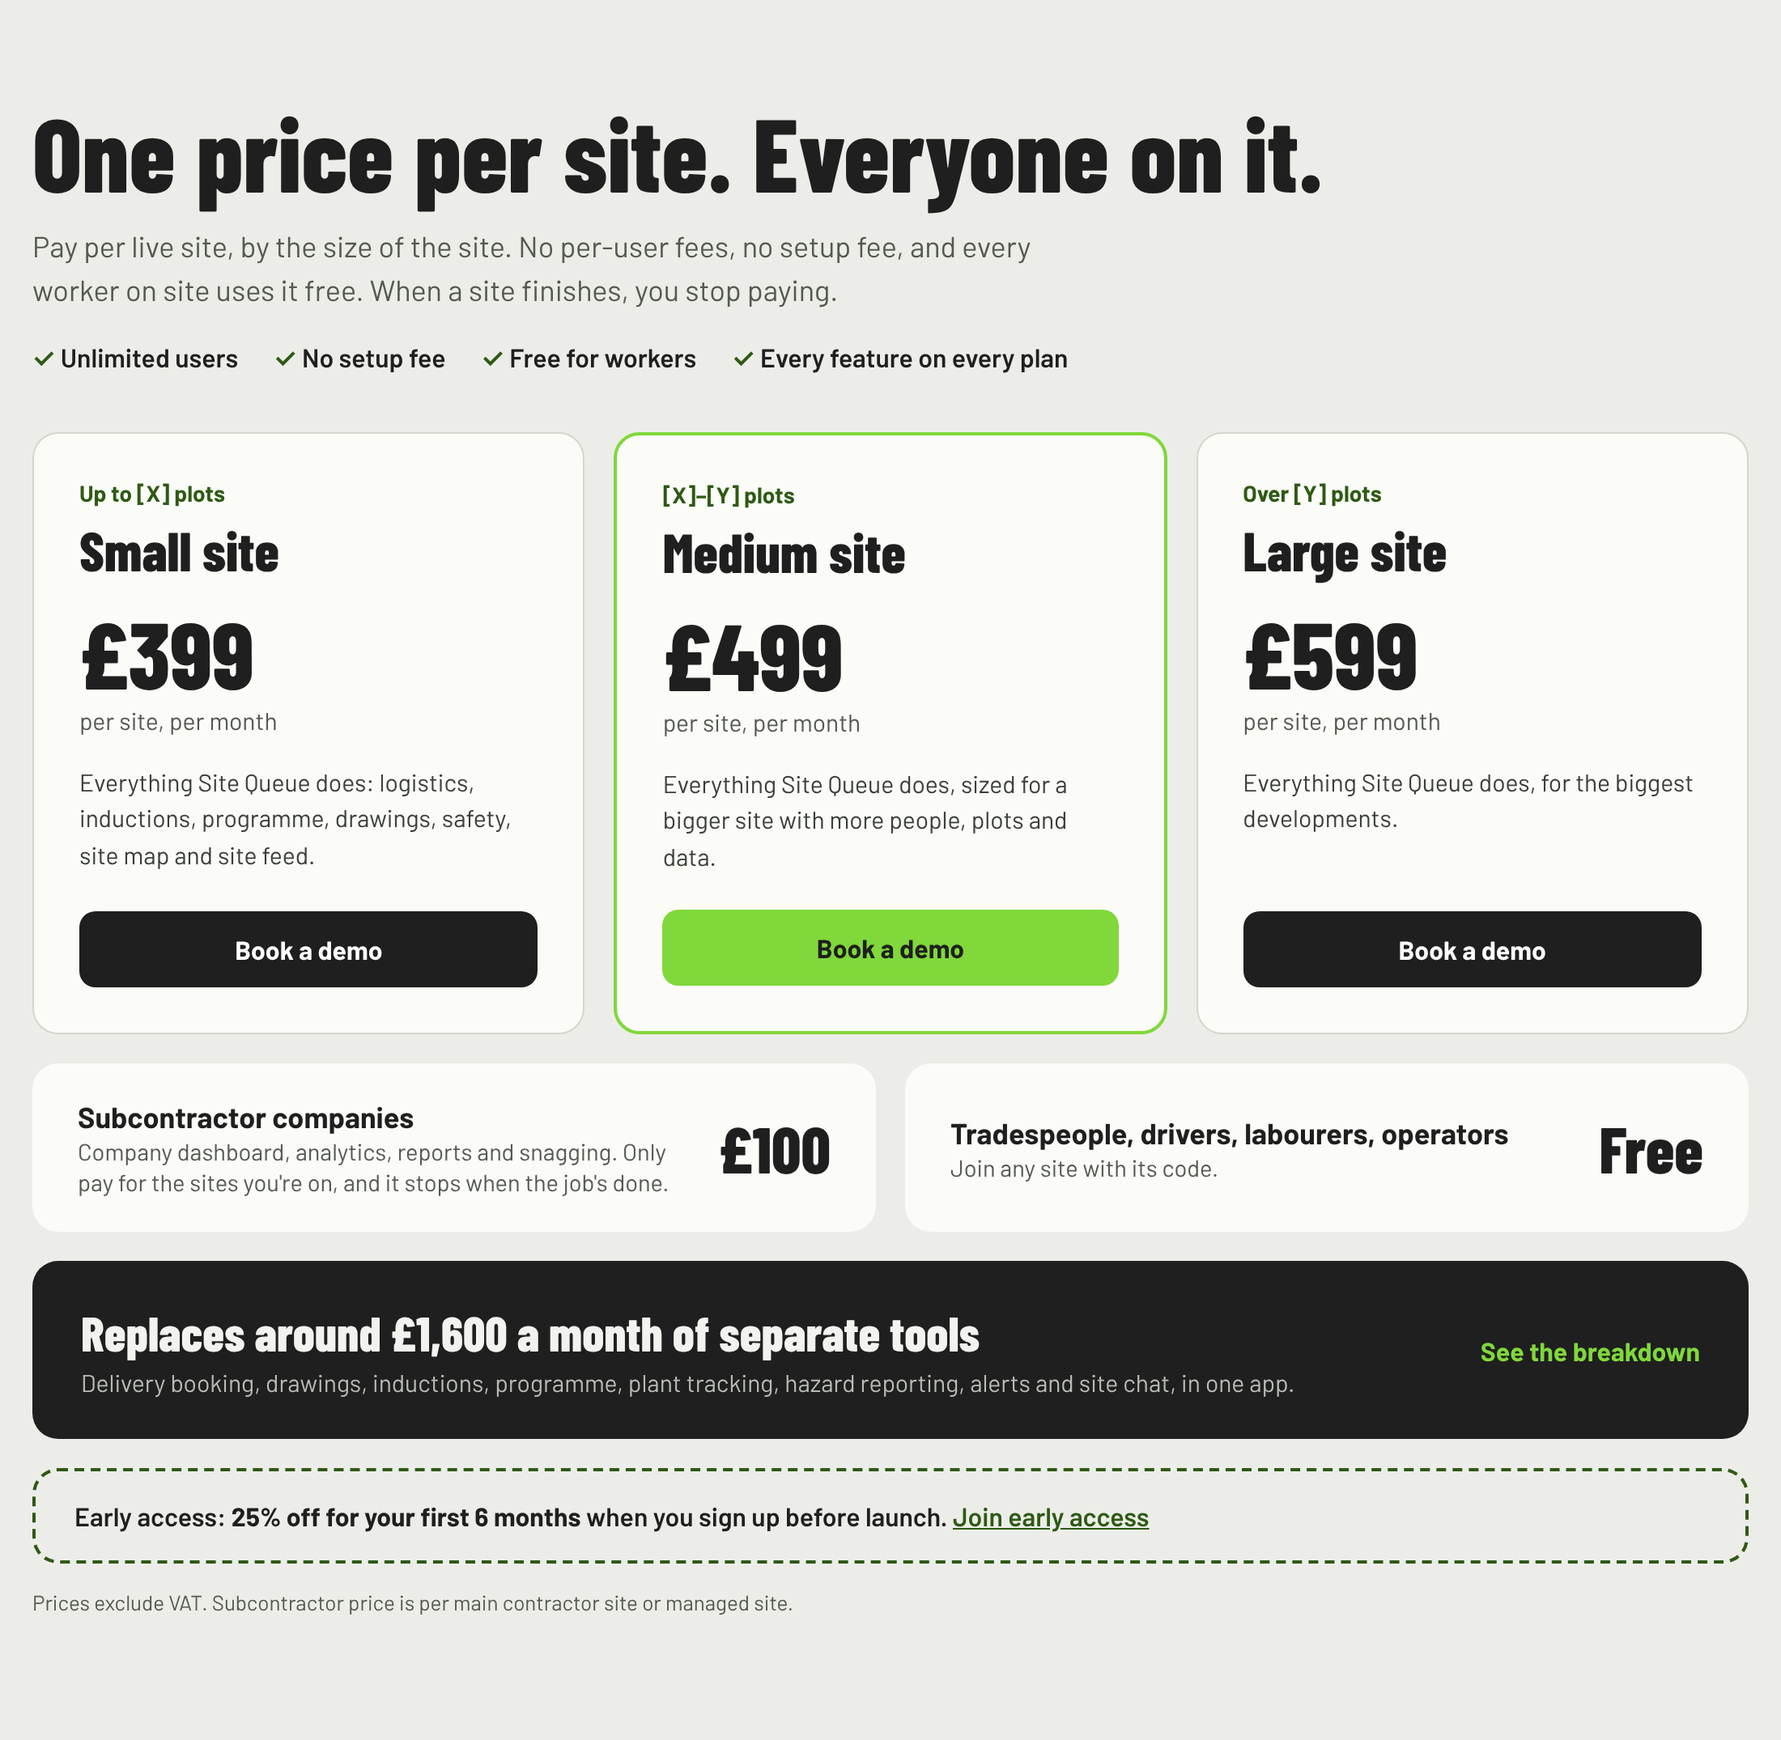
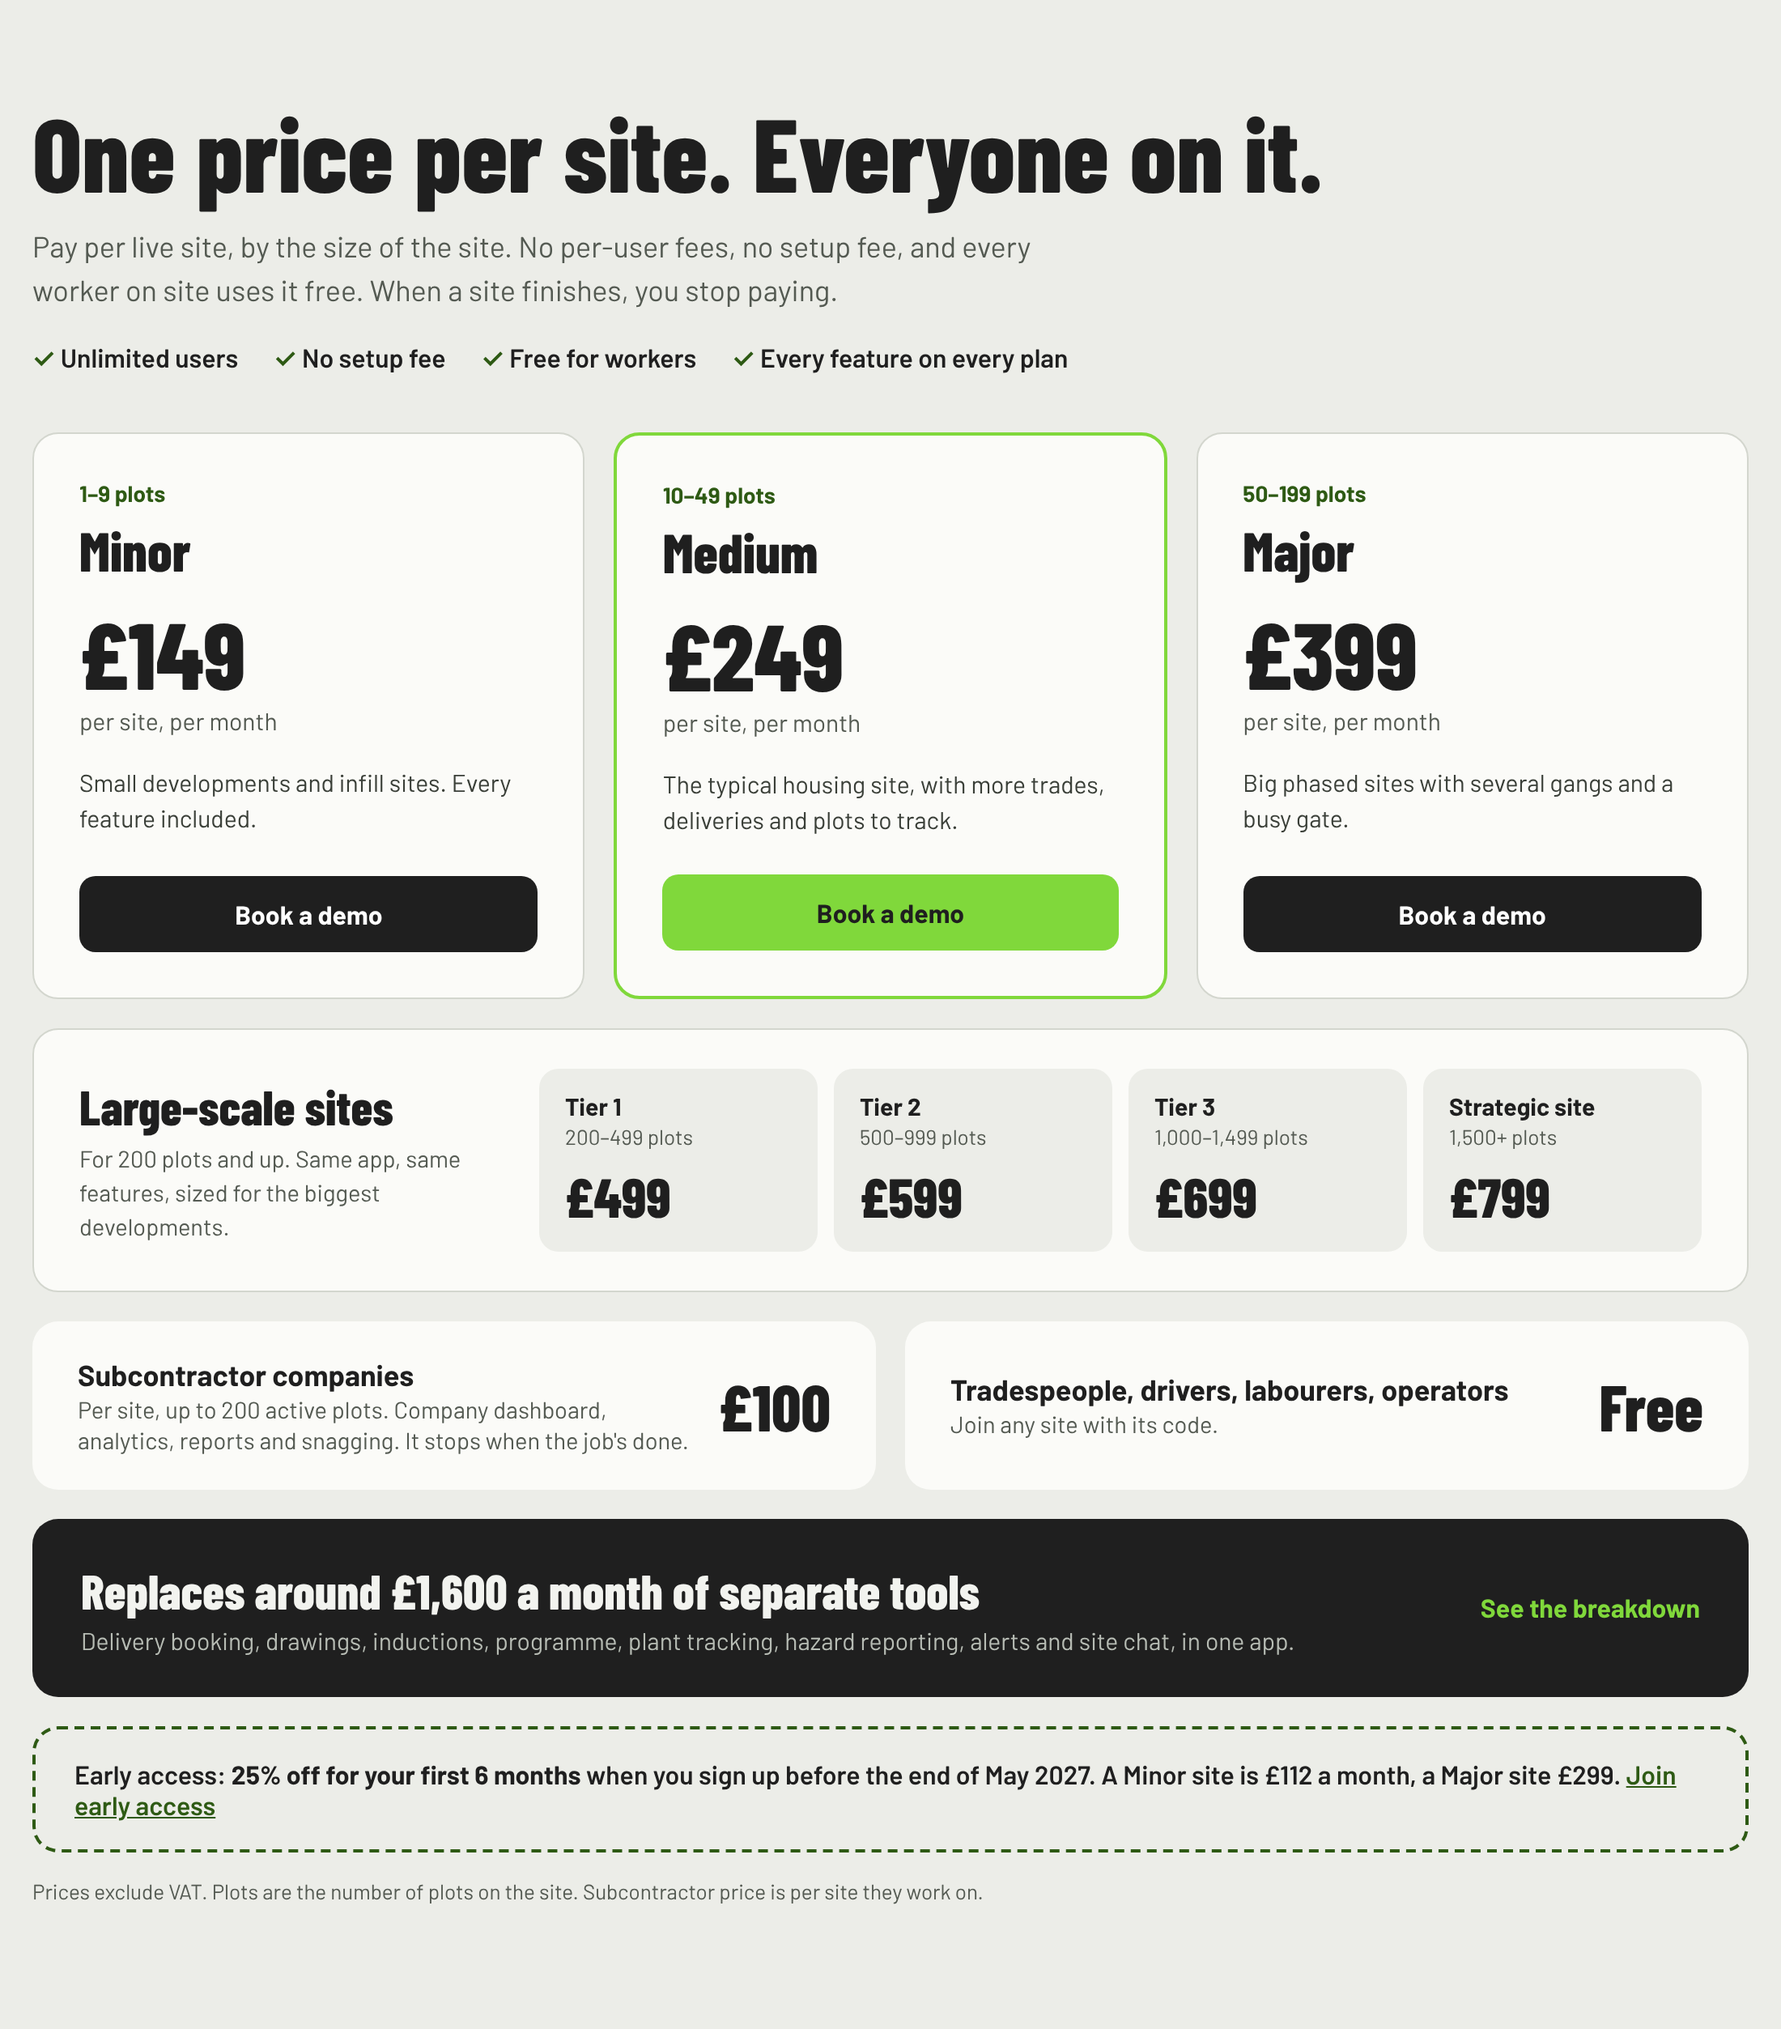
Pricing section: Luke's 7 plot-based tiers, subcontractor cap, early access to end of May 2027; comparison graphics from £149
Claude-Session: https://claude.ai/code/session_01Rq6TRmoTie3jpEZMymRowt

Changed region(s): [[0.0, 0.0623, 0.9891, 0.9349]]

diff --git a/marketing/website/pricing-section.html b/marketing/website/pricing-section.html
@@ -4,7 +4,7 @@
 <meta charset="utf-8">
 <meta name="viewport" content="width=device-width, initial-scale=1">
 <title>Pricing | Site Queue</title>
-<!-- Site Queue pricing section. Prices from Luke (Nov 2026): tiers by site size; plot limits [X]/[Y] still to set.
+<!-- Site Queue pricing section. Prices from Luke (Nov 2026): tiers by site size; 7 main contractor tiers by plot count, subcontractor £100, early access 25% off 6 months to end of May 2027.
      Drop the <section> into a WordPress Custom HTML block. Styles are scoped to .sq-pricing. -->
 <link rel="stylesheet" href="https://fonts.googleapis.com/css2?family=Barlow+Condensed:wght@800&family=Barlow:wght@400;500;600;700&display=swap">
 <style>
@@ -27,6 +27,14 @@
   .sq-pricing .btn { display: block; text-align: center; font-weight: 700; font-size: 16px; padding: 14px; border-radius: 10px; text-decoration: none; background: var(--char); color: #fff; }
   .sq-pricing .plan.pop .btn { background: var(--lime); color: var(--char); }
   .sq-pricing .btn:focus-visible { outline: 3px solid var(--deep); outline-offset: 3px; }
+  .sq-pricing .large { margin-top: 18px; background: #FBFBF8; border-radius: 16px; padding: 24px 28px; border: 1.5px solid var(--line); display: grid; grid-template-columns: 260px 1fr; gap: 24px; align-items: center; }
+  .sq-pricing .lh b { display: block; font-family: 'Barlow Condensed', Arial, sans-serif; font-weight: 800; font-size: 30px; }
+  .sq-pricing .lh span { font-size: 14.5px; color: var(--grey); line-height: 1.45; display: block; margin-top: 4px; }
+  .sq-pricing .tiers { display: grid; grid-template-columns: repeat(4, 1fr); gap: 10px; }
+  .sq-pricing .tiers div { background: var(--con); border-radius: 12px; padding: 14px 16px; }
+  .sq-pricing .tiers span { display: block; font-weight: 700; font-size: 15px; }
+  .sq-pricing .tiers small { display: block; font-size: 13px; color: var(--grey); margin-top: 2px; }
+  .sq-pricing .tiers b { display: block; font-family: 'Barlow Condensed', Arial, sans-serif; font-weight: 800; font-size: 34px; margin-top: 8px; }
   .sq-pricing .extras { display: grid; grid-template-columns: 1fr 1fr; gap: 18px; margin-top: 18px; }
   .sq-pricing .extra { background: #FBFBF8; border-radius: 16px; padding: 22px 28px; display: flex; justify-content: space-between; align-items: center; gap: 18px; }
   .sq-pricing .extra b { display: block; font-size: 18px; }
@@ -38,7 +46,7 @@
   .sq-pricing .compare a { color: var(--lime); font-weight: 700; text-decoration: none; }
   .sq-pricing .early { margin-top: 18px; border: 2px dashed var(--deep); border-radius: 16px; padding: 18px 24px; font-weight: 600; }
   .sq-pricing .small { font-size: 13px; color: var(--grey); margin-top: 16px; }
-  @media (max-width: 860px) { .sq-pricing .plans, .sq-pricing .extras { grid-template-columns: 1fr; } }
+  @media (max-width: 860px) { .sq-pricing .plans, .sq-pricing .extras, .sq-pricing .large { grid-template-columns: 1fr; } .sq-pricing .tiers { grid-template-columns: 1fr 1fr; } }
 </style>
 </head>
 <body style="margin:0">
@@ -50,30 +58,40 @@
 
     <div class="plans">
       <div class="plan">
-        <div class="who">Up to [X] plots</div>
-        <h3>Small site</h3>
-        <div class="price">£399</div><div class="per">per site, per month</div>
-        <p>Everything Site Queue does: logistics, inductions, programme, drawings, safety, site map and site feed.</p>
+        <div class="who">1–9 plots</div>
+        <h3>Minor</h3>
+        <div class="price">£149</div><div class="per">per site, per month</div>
+        <p>Small developments and infill sites. Every feature included.</p>
         <a class="btn" href="#demo">Book a demo</a>
       </div>
       <div class="plan pop">
-        <div class="who">[X]–[Y] plots</div>
-        <h3>Medium site</h3>
-        <div class="price">£499</div><div class="per">per site, per month</div>
-        <p>Everything Site Queue does, sized for a bigger site with more people, plots and data.</p>
+        <div class="who">10–49 plots</div>
+        <h3>Medium</h3>
+        <div class="price">£249</div><div class="per">per site, per month</div>
+        <p>The typical housing site, with more trades, deliveries and plots to track.</p>
         <a class="btn" href="#demo">Book a demo</a>
       </div>
       <div class="plan">
-        <div class="who">Over [Y] plots</div>
-        <h3>Large site</h3>
-        <div class="price">£599</div><div class="per">per site, per month</div>
-        <p>Everything Site Queue does, for the biggest developments.</p>
+        <div class="who">50–199 plots</div>
+        <h3>Major</h3>
+        <div class="price">£399</div><div class="per">per site, per month</div>
+        <p>Big phased sites with several gangs and a busy gate.</p>
         <a class="btn" href="#demo">Book a demo</a>
       </div>
     </div>
 
+    <div class="large">
+      <div class="lh"><b>Large-scale sites</b><span>For 200 plots and up. Same app, same features, sized for the biggest developments.</span></div>
+      <div class="tiers">
+        <div><span>Tier 1</span><small>200–499 plots</small><b>£499</b></div>
+        <div><span>Tier 2</span><small>500–999 plots</small><b>£599</b></div>
+        <div><span>Tier 3</span><small>1,000–1,499 plots</small><b>£699</b></div>
+        <div><span>Strategic site</span><small>1,500+ plots</small><b>£799</b></div>
+      </div>
+    </div>
+
     <div class="extras">
-      <div class="extra"><div><b>Subcontractor companies</b><span>Company dashboard, analytics, reports and snagging. Only pay for the sites you're on, and it stops when the job's done.</span></div><div class="amt">£100</div></div>
+      <div class="extra"><div><b>Subcontractor companies</b><span>Per site, up to 200 active plots. Company dashboard, analytics, reports and snagging. It stops when the job's done.</span></div><div class="amt">£100</div></div>
       <div class="extra"><div><b>Tradespeople, drivers, labourers, operators</b><span>Join any site with its code.</span></div><div class="amt">Free</div></div>
     </div>
 
@@ -82,9 +100,9 @@
       <a href="/what-site-queue-replaces/">See the breakdown</a>
     </div>
 
-    <div class="early">Early access: <b>25% off for your first 6 months</b> when you sign up before launch. <a href="#demo" style="color:#2E5A14">Join early access</a></div>
+    <div class="early">Early access: <b>25% off for your first 6 months</b> when you sign up before the end of May 2027. A Minor site is £112 a month, a Major site £299. <a href="#demo" style="color:#2E5A14">Join early access</a></div>
 
-    <p class="small">Prices exclude VAT. Subcontractor price is per main contractor site or managed site.</p>
+    <p class="small">Prices exclude VAT. Plots are the number of plots on the site. Subcontractor price is per site they work on.</p>
   </div>
 </section>
 </body>

diff --git a/marketing/source/comparison.js b/marketing/source/comparison.js
@@ -25,7 +25,7 @@ const portrait = `
     `<div>${list(28, 15)}<div style="display:flex;justify-content:space-between;border-top:2px solid #F2F3EF;padding-top:16px;font-size:34px;font-weight:700"><span>Total</span><span>about £1,600</span></div></div>`,
     `<div style="background:#80D83B;color:#1F1F1F;border-radius:18px;padding:26px 30px;display:flex;justify-content:space-between;align-items:center;gap:24px">
        <div><div class="d" style="font-size:60px">Site Queue</div><div style="font-size:22px;font-weight:600;color:#2E5A14;margin-top:6px">Everything above, in one app. Unlimited users. Free for workers.</div></div>
-       <div style="text-align:right;white-space:nowrap"><div style="font-size:22px;font-weight:700">from</div><div class="d" style="font-size:84px">£399</div><div style="font-size:20px;font-weight:600;color:#2E5A14">per site, per month</div></div></div>`,
+       <div style="text-align:right;white-space:nowrap"><div style="font-size:22px;font-weight:700">from</div><div class="d" style="font-size:84px">£149</div><div style="font-size:20px;font-weight:600;color:#2E5A14">per site, per month</div></div></div>`,
   ], 26)}
   <div class="abs" style="left:72px;right:72px;bottom:34px;font-size:15px;color:#7D827C;line-height:1.4">Based on the cheapest published plans for one housing site with 10 office users, 50 operatives and 5 tracked machines, November 2026. Excludes VAT, setup fees and hardware.</div>`;
 
@@ -33,8 +33,8 @@ const wide = `
   <img class="tile abs" src="${K.LOGO}" style="left:80px;top:72px;width:84px">
   ${K.stack(80, 200, 640, [
     `<div class="d" style="font-size:104px">Eight tools. Or one app.</div>`,
-    `<div style="font-size:26px;color:#B7BCB4;line-height:1.45">Running one site on separate software costs around £1,600 a month. Site Queue does all of it, from £399 per site.</div>`,
-    `<div style="background:#80D83B;color:#1F1F1F;border-radius:18px;padding:24px 28px"><div class="d" style="font-size:56px">from £399</div><div style="font-size:21px;font-weight:600;color:#2E5A14;margin-top:6px">per site, per month. Unlimited users. Free for workers.</div></div>`,
+    `<div style="font-size:26px;color:#B7BCB4;line-height:1.45">Running one site on separate software costs around £1,600 a month. Site Queue does all of it, from £149 per site.</div>`,
+    `<div style="background:#80D83B;color:#1F1F1F;border-radius:18px;padding:24px 28px"><div class="d" style="font-size:56px">from £149</div><div style="font-size:21px;font-weight:600;color:#2E5A14;margin-top:6px">per site, per month. Unlimited users. Free for workers.</div></div>`,
   ], 28)}
   <div class="abs" style="left:800px;top:120px;width:720px">${list(26, 14)}<div style="display:flex;justify-content:space-between;border-top:2px solid #F2F3EF;padding-top:16px;font-size:32px;font-weight:700"><span>Separate tools, per month</span><span>about £1,600</span></div></div>
   <div class="abs" style="left:80px;right:80px;bottom:34px;font-size:15px;color:#7D827C">Cheapest published plans for one housing site (10 office users, 50 operatives, 5 machines), November 2026. Excludes VAT, setup fees and hardware.</div>`;
